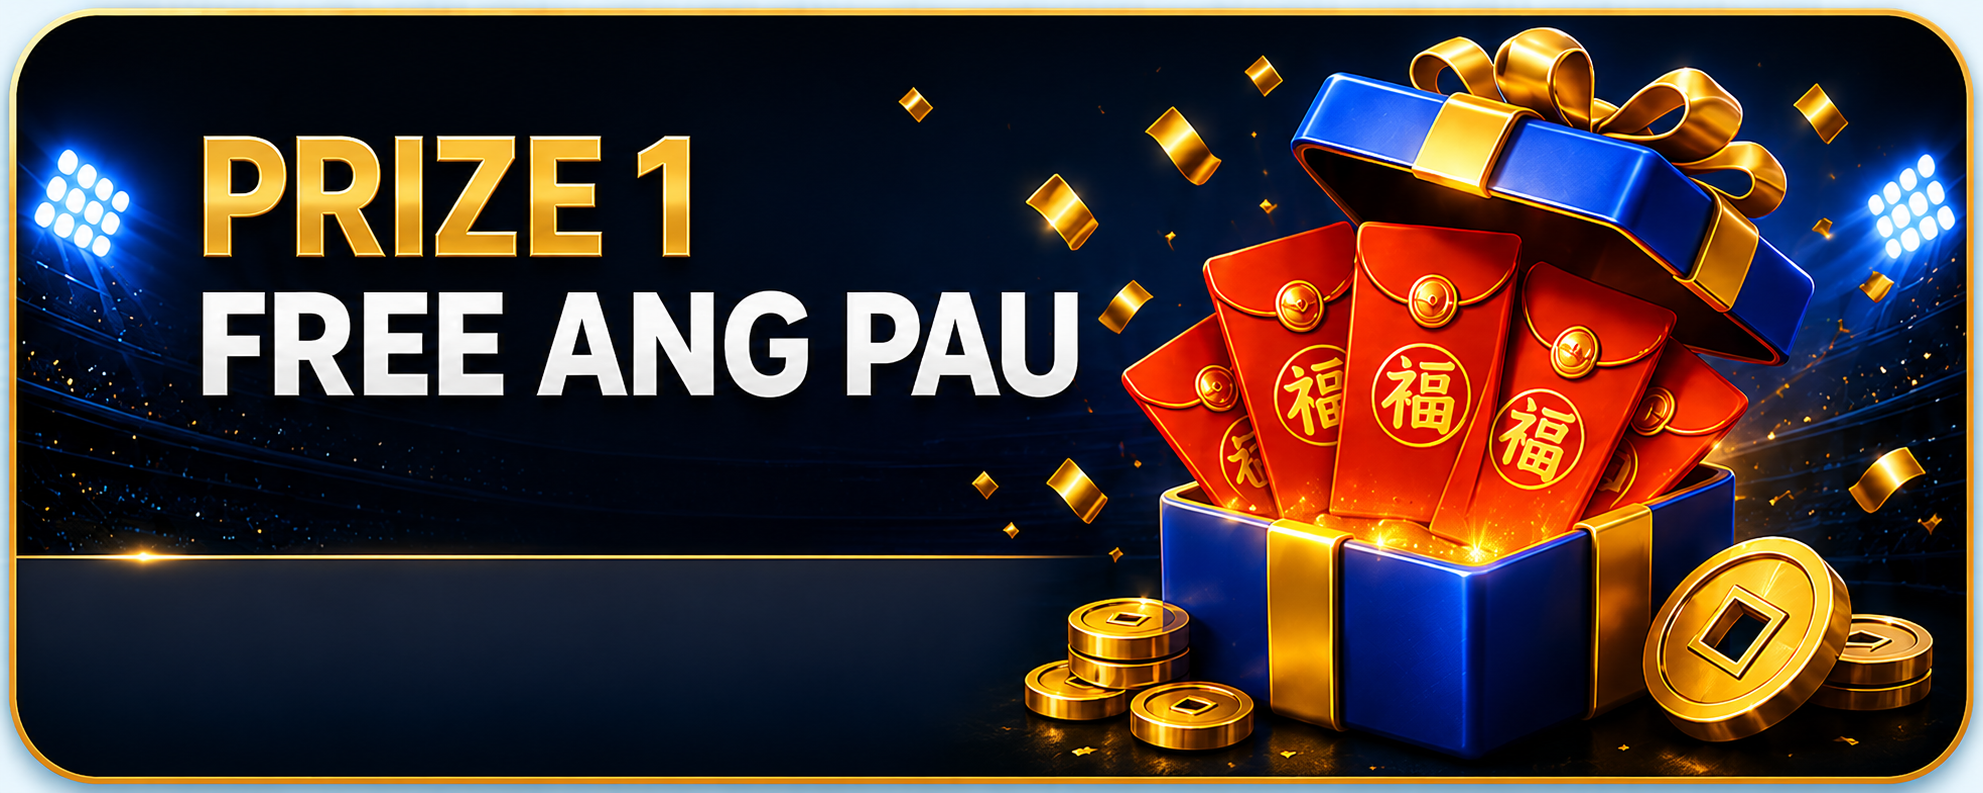
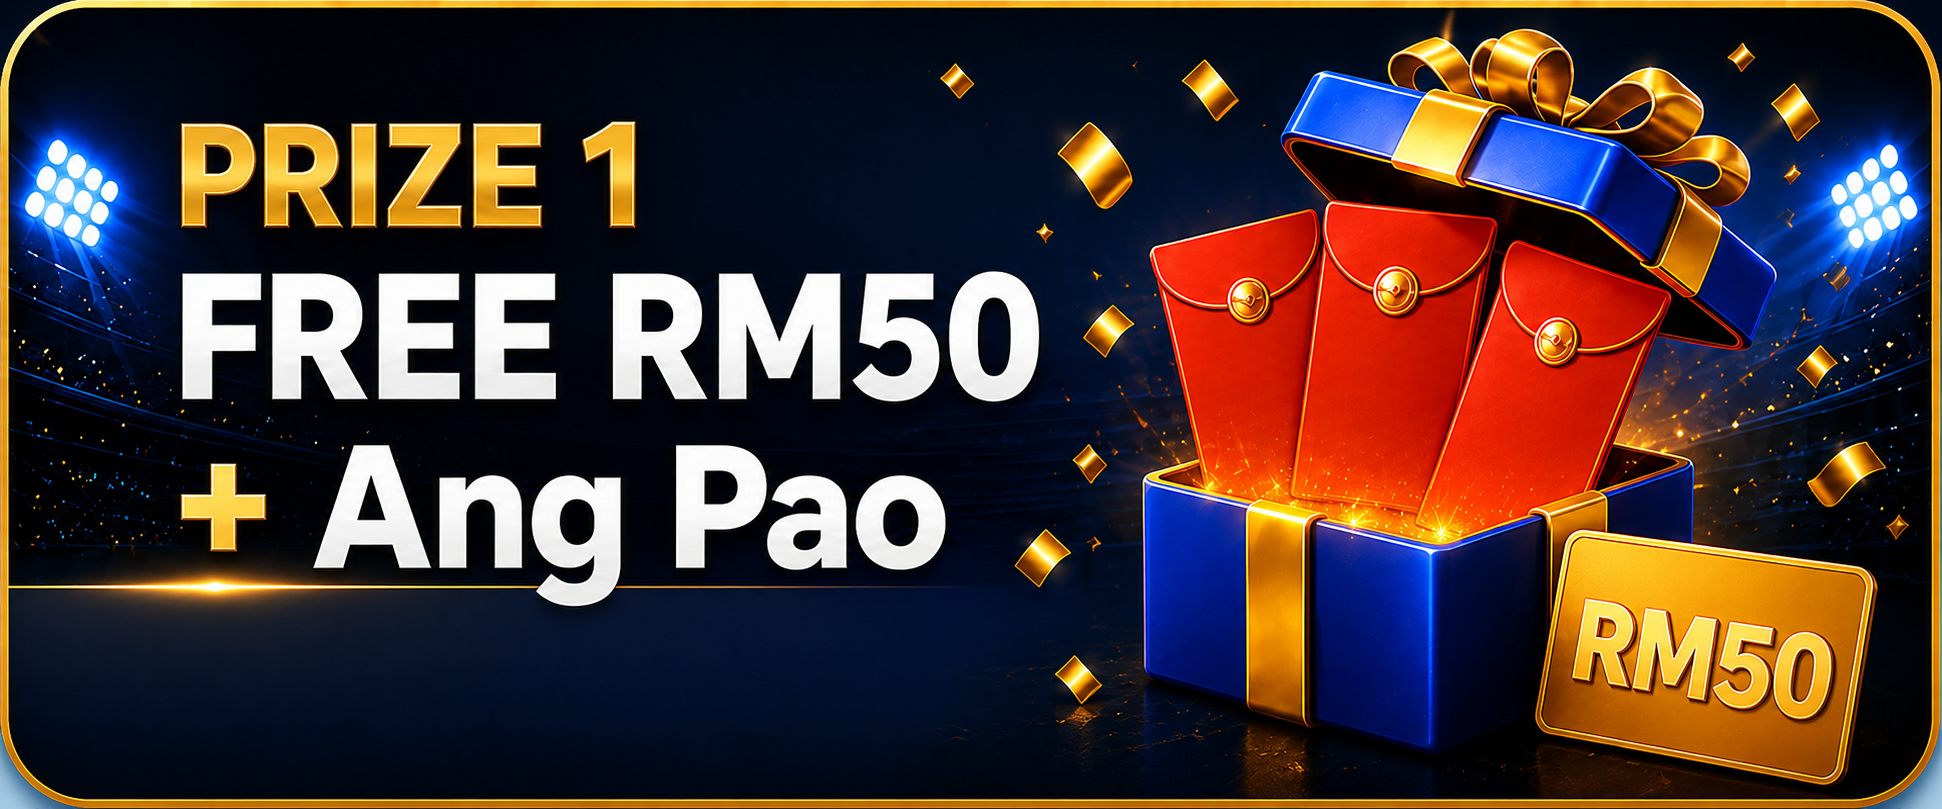
Replace prize 1 reward card

diff --git a/index.html b/index.html
@@ -7,7 +7,7 @@
     <link rel="preconnect" href="https://fonts.googleapis.com">
     <link rel="preconnect" href="https://fonts.gstatic.com" crossorigin>
     <link href="https://fonts.googleapis.com/css2?family=Inter:wght@600;700;800;900&display=swap" rel="stylesheet">
-    <link rel="stylesheet" href="styles.css?v=user-assets-3">
+    <link rel="stylesheet" href="styles.css?v=user-assets-4">
     <!-- Meta Pixel Code -->
     <script>
       !function(f,b,e,v,n,t,s)
@@ -29,7 +29,7 @@
     /></noscript>
     <main class="page-shell">
       <section class="hero poster-hero" aria-label="WINBOX New Member Welcome Rewards">
-        <img src="assets/jackpot-cartoon-hero.png?v=user-assets-3" alt="New members can enjoy five premium welcome rewards">
+        <img src="assets/jackpot-cartoon-hero.png?v=user-assets-4" alt="New members can enjoy five premium welcome rewards">
         <a class="hero-whatsapp-cta" href="https://tinyurl.com/warb04" target="_blank" rel="noopener">Whatsapp Now</a>
       </section>
 
@@ -45,35 +45,35 @@
         <div class="reward-image-list">
           <article class="reward-item reward-item-1">
             <div class="reward-image-frame">
-              <img src="assets/reward-card-1.png?v=user-assets-3" alt="Prize 1 Free Ang Pau">
+              <img src="assets/reward-card-1.png?v=user-assets-4" alt="Prize 1 Free RM50 plus Ang Pao">
             </div>
             <a class="gold-button real-cta" href="https://tinyurl.com/warb04" target="_blank" rel="noopener"><span>Join Now</span></a>
           </article>
 
           <article class="reward-item reward-item-2">
             <div class="reward-image-frame">
-              <img src="assets/reward-card-2.png?v=user-assets-3" alt="Prize 2 Free Daily Draw">
+              <img src="assets/reward-card-2.png?v=user-assets-4" alt="Prize 2 Free Daily Draw">
             </div>
             <a class="gold-button real-cta" href="https://tinyurl.com/warb04" target="_blank" rel="noopener"><span>Join Now</span></a>
           </article>
 
           <article class="reward-item reward-item-3">
             <div class="reward-image-frame">
-              <img src="assets/reward-card-3.png?v=user-assets-3" alt="Prize 3 Free Extra Bonus">
+              <img src="assets/reward-card-3.png?v=user-assets-4" alt="Prize 3 Free Extra Bonus">
             </div>
             <a class="gold-button real-cta" href="https://tinyurl.com/warb04" target="_blank" rel="noopener"><span>Join Now</span></a>
           </article>
 
           <article class="reward-item reward-item-4">
             <div class="reward-image-frame">
-              <img src="assets/reward-card-4.png?v=user-assets-3" alt="Prize 4 Lucky 7 Free RM777">
+              <img src="assets/reward-card-4.png?v=user-assets-4" alt="Prize 4 Lucky 7 Free RM777">
             </div>
             <a class="gold-button real-cta" href="https://tinyurl.com/warb04" target="_blank" rel="noopener"><span>Join Now</span></a>
           </article>
 
           <article class="reward-item reward-item-5">
             <div class="reward-image-frame">
-              <img src="assets/reward-card-5.png?v=user-assets-3" alt="Prize 5 Scratch and Win Free RM2888">
+              <img src="assets/reward-card-5.png?v=user-assets-4" alt="Prize 5 Scratch and Win Free RM2888">
             </div>
             <a class="gold-button real-cta" href="https://tinyurl.com/warb04" target="_blank" rel="noopener"><span>Join Now</span></a>
           </article>